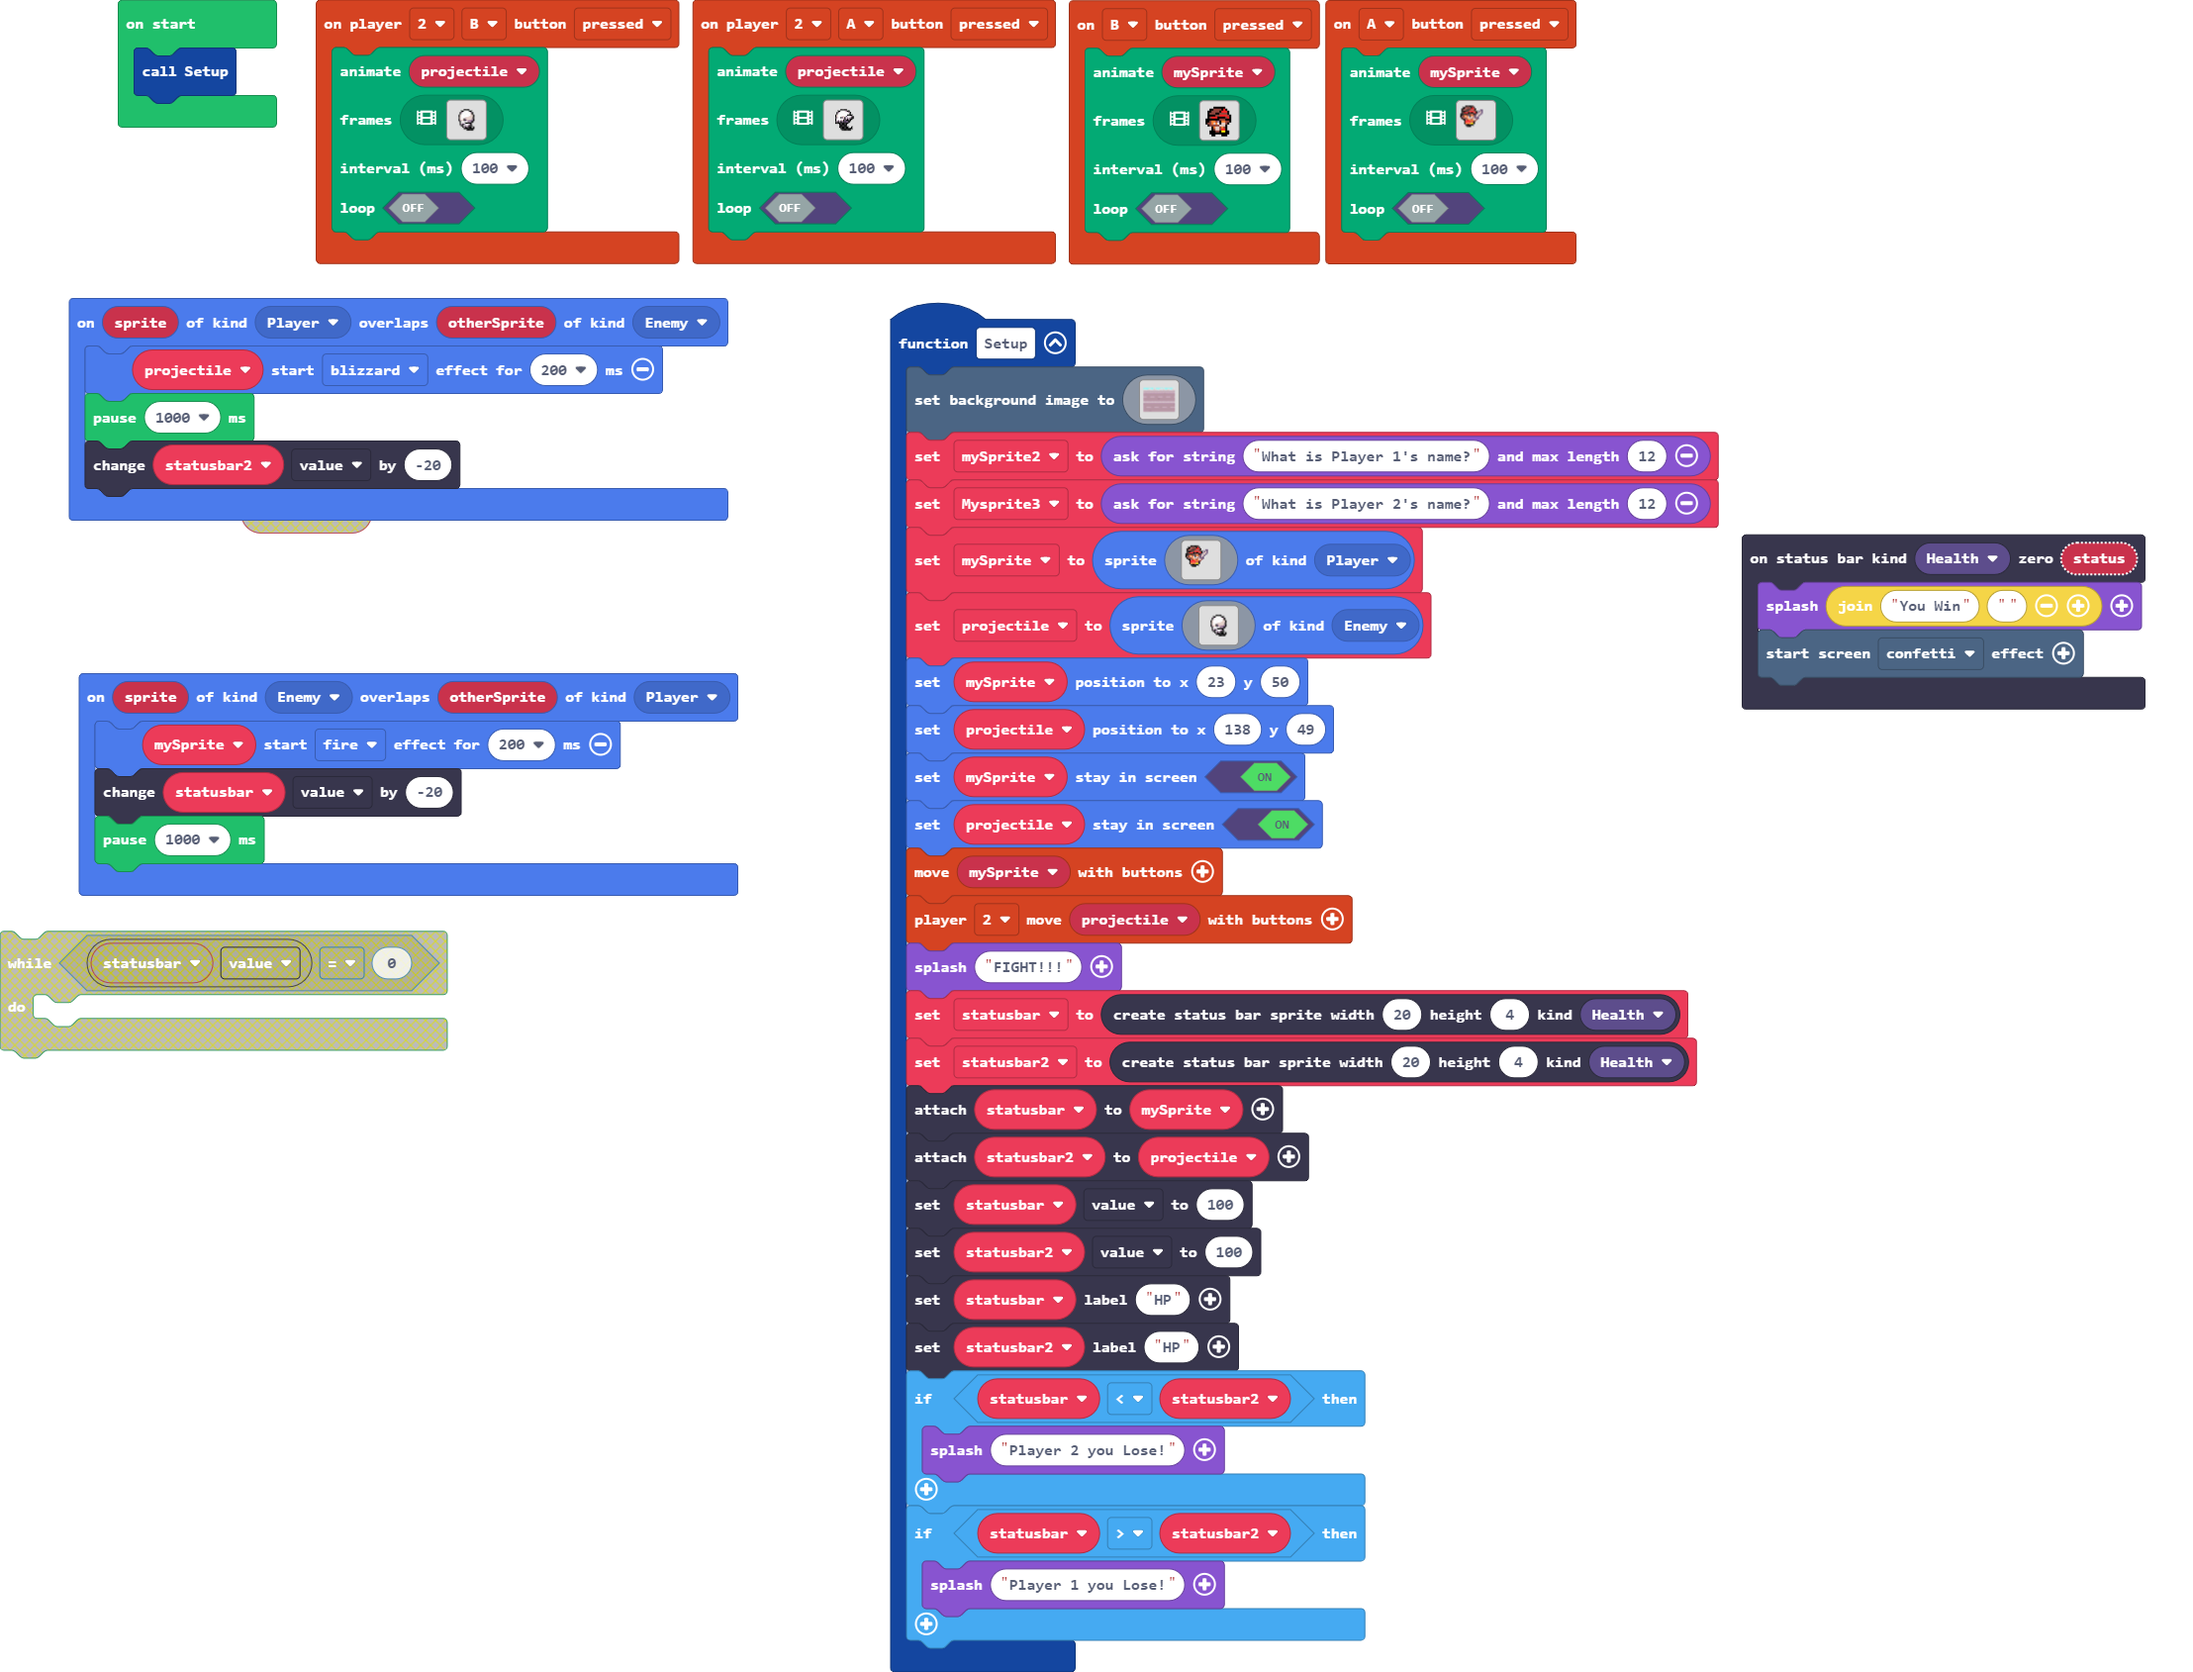
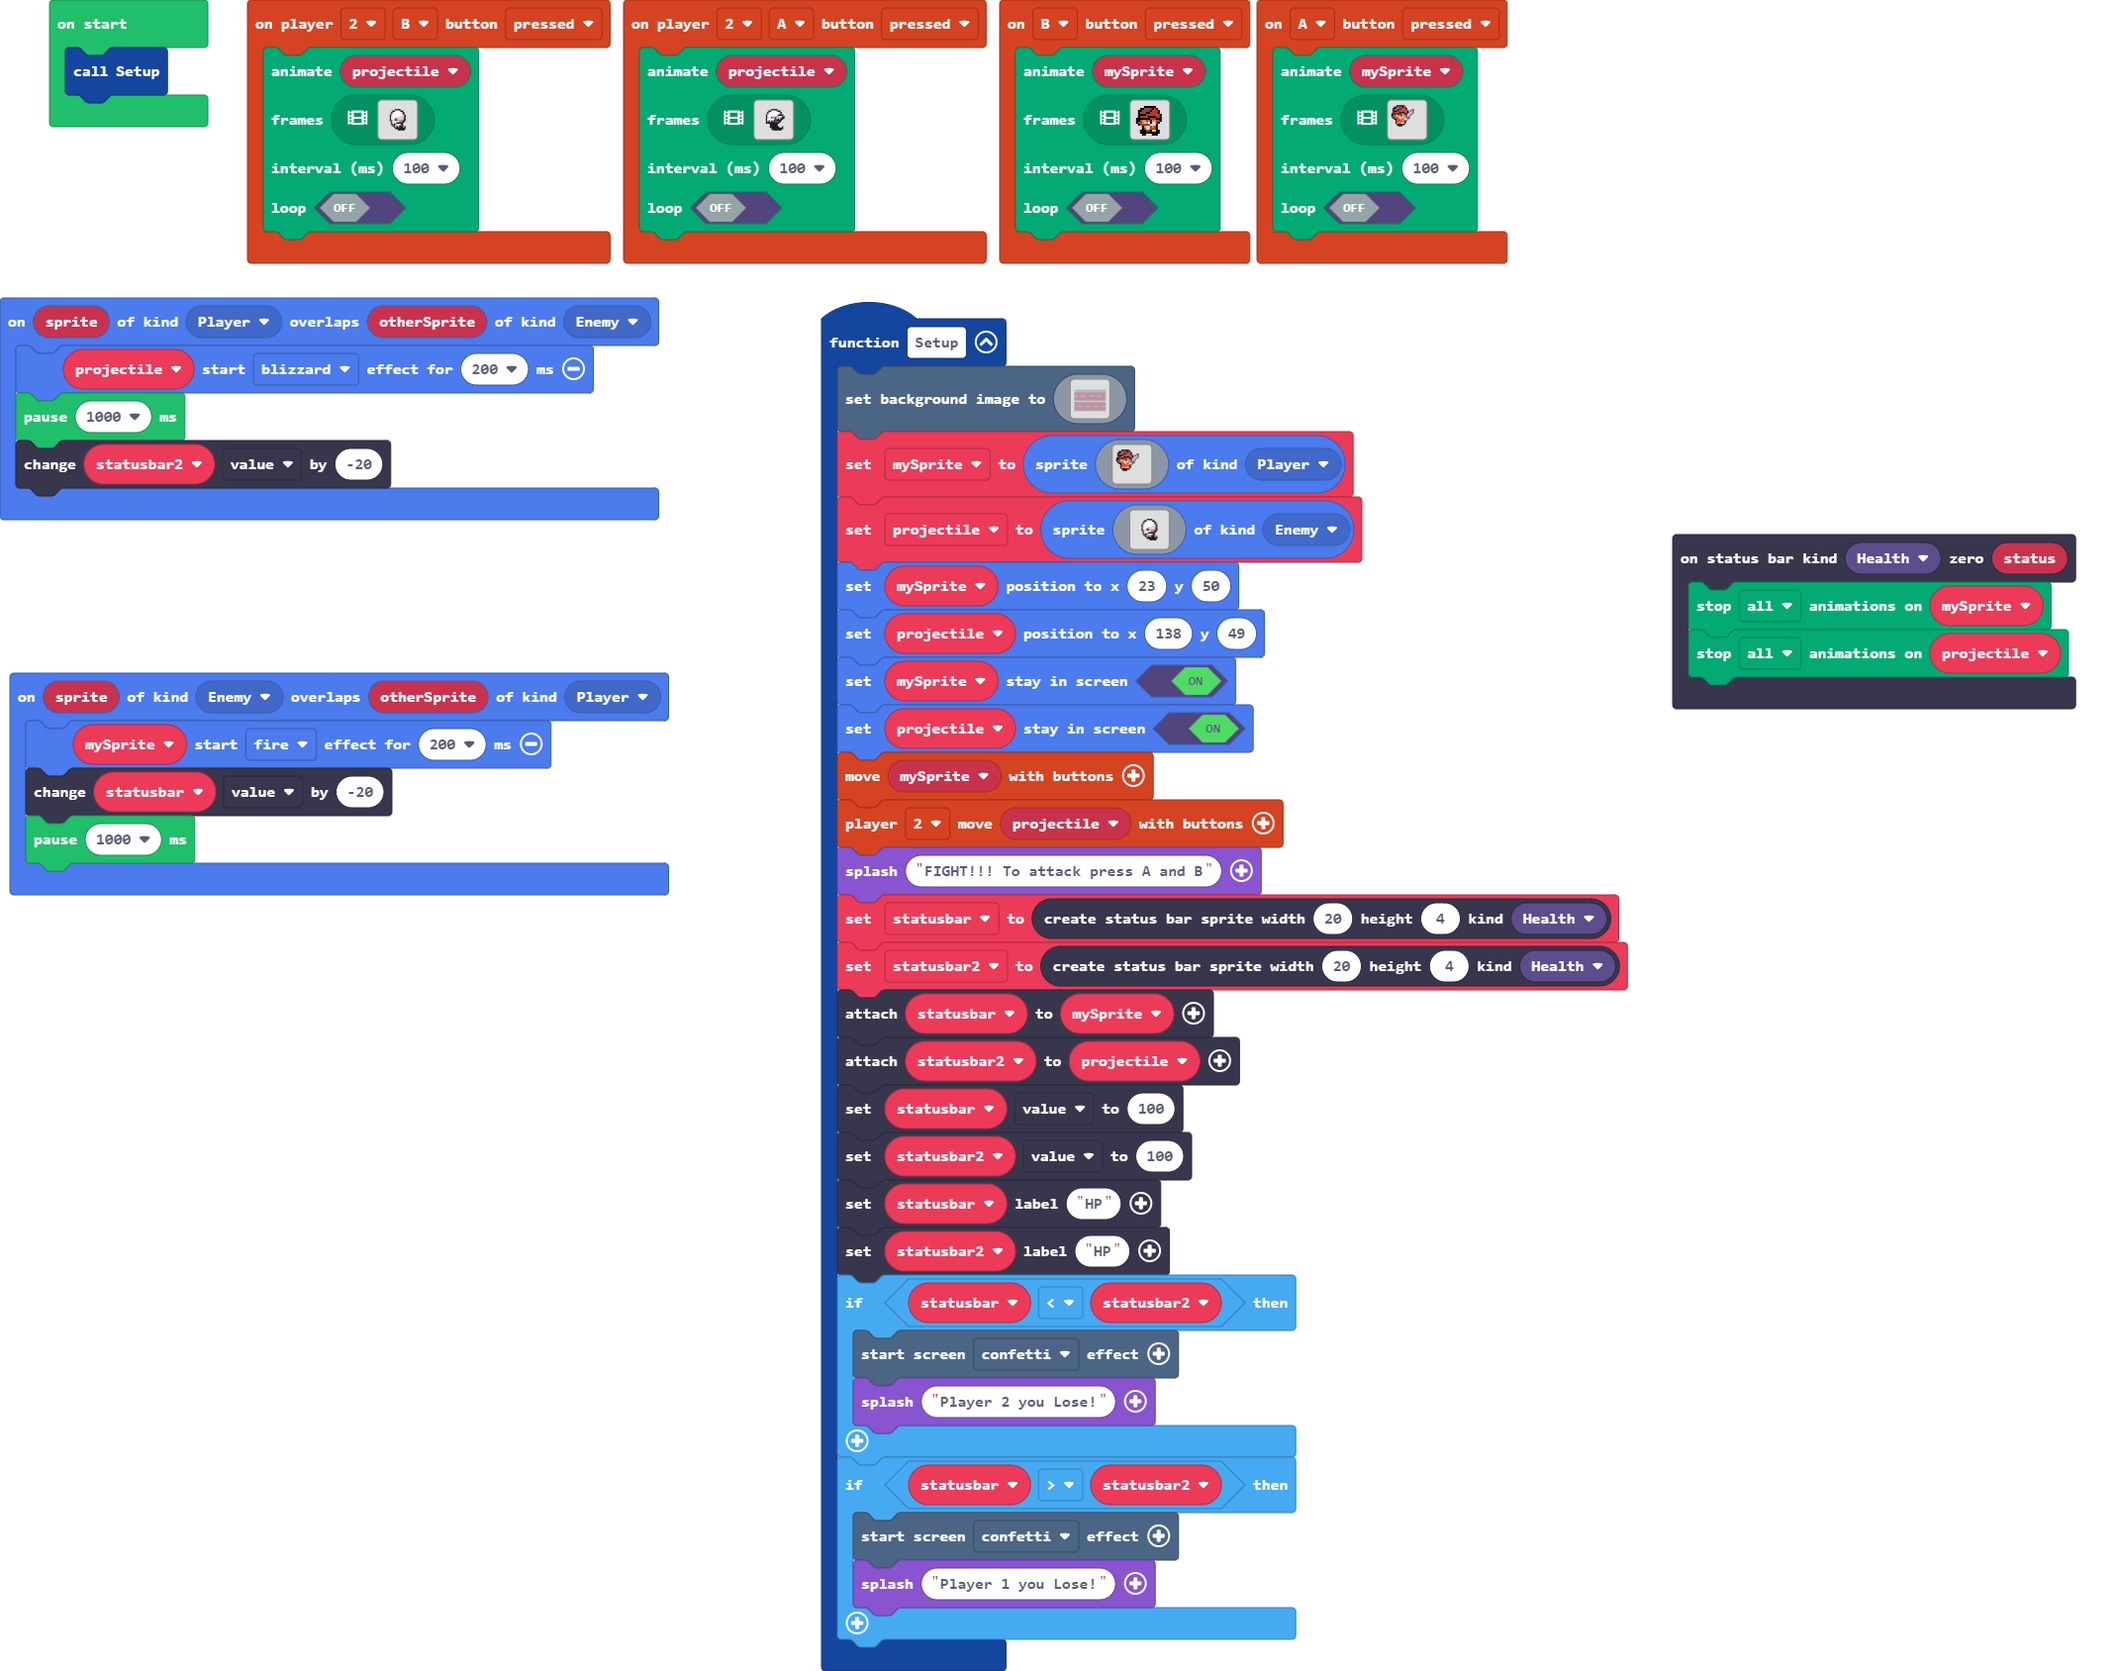
Update main.blocks, main.ts

diff --git a/main.ts b/main.ts
@@ -299,8 +299,8 @@ controller.player2.onButtonEvent(ControllerButton.A, ControllerButtonEvent.Press
     )
 })
 statusbars.onZero(StatusBarKind.Health, function (status) {
-    game.splash("You Win" + "")
-    effects.confetti.startScreenEffect()
+    animation.stopAnimation(animation.AnimationTypes.All, mySprite)
+    animation.stopAnimation(animation.AnimationTypes.All, projectile)
 })
 sprites.onOverlap(SpriteKind.Enemy, SpriteKind.Player, function (sprite, otherSprite) {
     mySprite.startEffect(effects.fire, 200)
@@ -430,8 +430,6 @@ function Setup () {
         bbbbbbbbbbbbbbbbbbbbbbbbbbbbbbbbbbbbbbccbbbbbbbbbbbbbbbbbbbbbbbbbbbbbbbbbbbbbbbbbbbbbbbbbbbbbbbbbbbbbbbbbbbbbbbbbbbbbbbbbbbbbbbbbbbbbbbbbbbbbbbbbbbbbbbbbbbbbbbb
         bbbbbbbbbbbbbbbbbbbbbbbbbbbbbbbbbbbbbbbbbbbbbbbbbbbbbbbbbbbbbbbbbbbbbbbbbbbbbbbbbbbbbbbbbbbbbbbbbbbbbbbbbbbbbbbbbbbbbbbbbbbbbbbbbbbbbbbbbbbbbbbbbbbbbbbbbbbbbbbb
         `)
-    mySprite2 = game.askForString("What is Player 1's name?", 12)
-    Mysprite3 = game.askForString("What is Player 2's name?", 12)
     mySprite = sprites.create(img`
         ........................
         ....ffffff..............
@@ -490,7 +488,7 @@ function Setup () {
     projectile.setStayInScreen(true)
     controller.moveSprite(mySprite)
     controller.player2.moveSprite(projectile)
-    game.splash("FIGHT!!!")
+    game.splash("FIGHT!!! To attack press A and B")
     statusbar = statusbars.create(20, 4, StatusBarKind.Health)
     statusbar2 = statusbars.create(20, 4, StatusBarKind.Health)
     statusbar.attachToSprite(mySprite)
@@ -500,9 +498,11 @@ function Setup () {
     statusbar.setLabel("HP")
     statusbar2.setLabel("HP")
     if (statusbar < statusbar2) {
+        effects.confetti.startScreenEffect()
         game.splash("Player 2 you Lose!")
     }
     if (statusbar > statusbar2) {
+        effects.confetti.startScreenEffect()
         game.splash("Player 1 you Lose!")
     }
 }
@@ -512,8 +512,6 @@ sprites.onOverlap(SpriteKind.Player, SpriteKind.Enemy, function (sprite, otherSp
     statusbar2.value += -20
 })
 let statusbar2: StatusBarSprite = null
-let Mysprite3 = ""
-let mySprite2 = ""
 let statusbar: StatusBarSprite = null
 let mySprite: Sprite = null
 let projectile: Sprite = null
